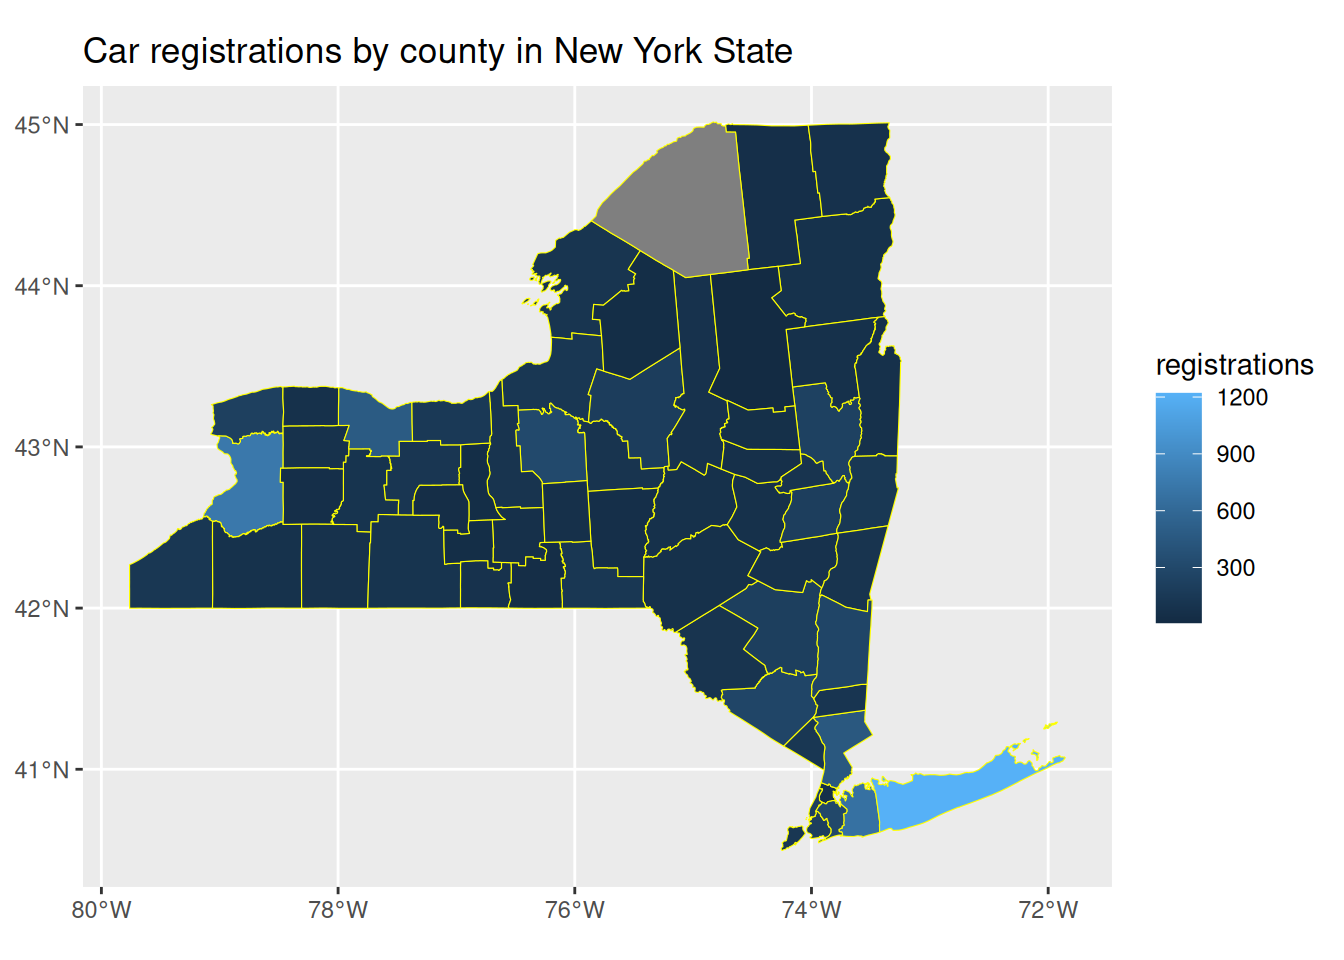
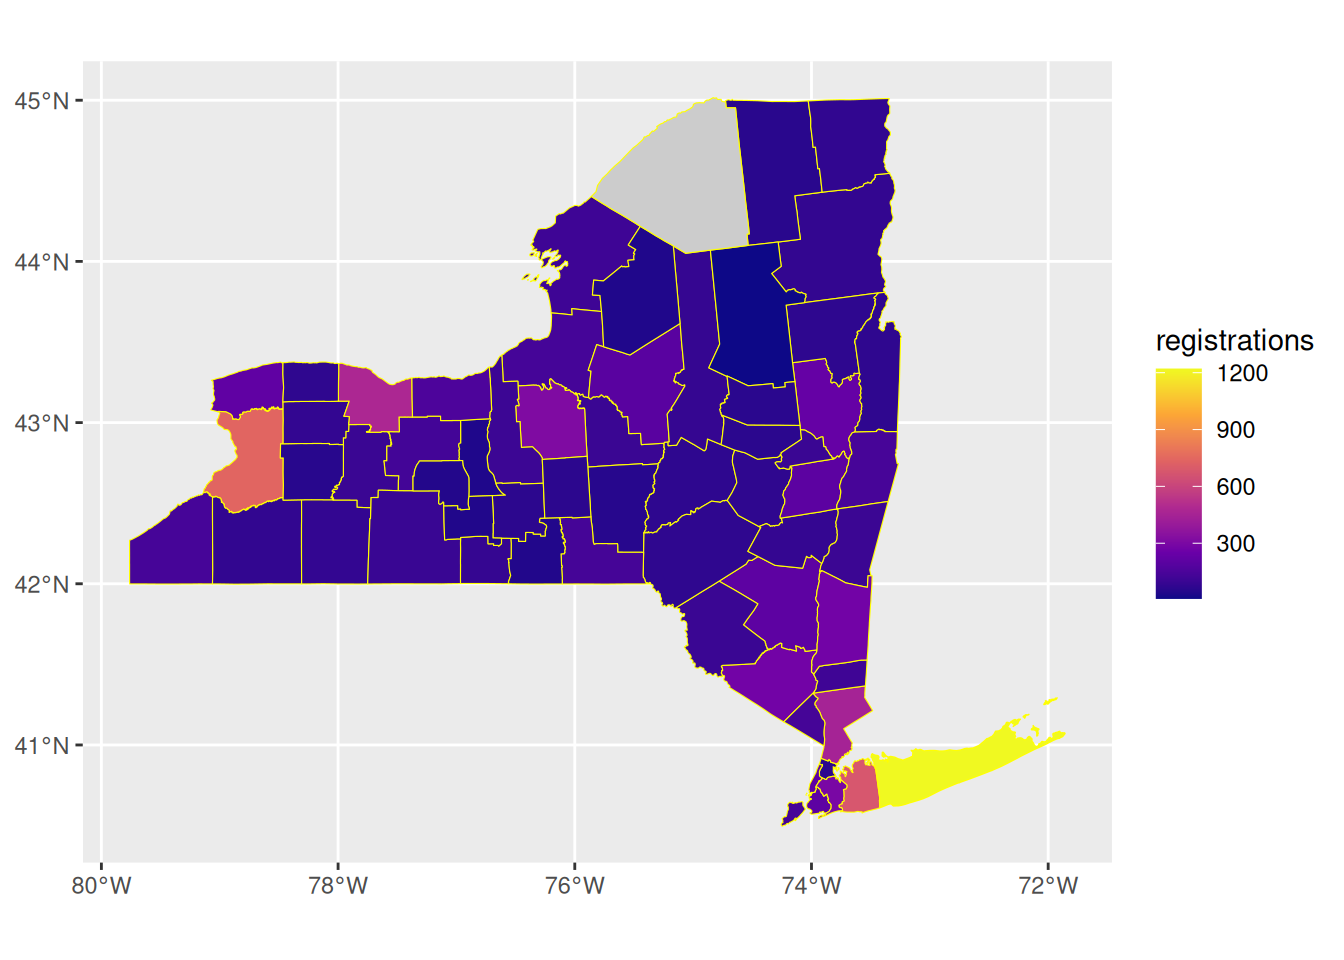
Built site for gh-pages

diff --git a/index.html b/index.html
@@ -28,41 +28,6 @@ ul.task-list li input[type="checkbox"] {
   margin: 0 0.8em 0.2em -1em; /* quarto-specific, see https://github.com/quarto-dev/quarto-cli/issues/4556 */ 
   vertical-align: middle;
 }
-/* CSS for syntax highlighting */
-html { -webkit-text-size-adjust: 100%; }
-pre > code.sourceCode { white-space: pre; position: relative; }
-pre > code.sourceCode > span { display: inline-block; line-height: 1.25; }
-pre > code.sourceCode > span:empty { height: 1.2em; }
-.sourceCode { overflow: visible; }
-code.sourceCode > span { color: inherit; text-decoration: inherit; }
-div.sourceCode { margin: 1em 0; }
-pre.sourceCode { margin: 0; }
-@media screen {
-div.sourceCode { overflow: auto; }
-}
-@media print {
-pre > code.sourceCode { white-space: pre-wrap; }
-pre > code.sourceCode > span { text-indent: -5em; padding-left: 5em; }
-}
-pre.numberSource code
-  { counter-reset: source-line 0; }
-pre.numberSource code > span
-  { position: relative; left: -4em; counter-increment: source-line; }
-pre.numberSource code > span > a:first-child::before
-  { content: counter(source-line);
-    position: relative; left: -1em; text-align: right; vertical-align: baseline;
-    border: none; display: inline-block;
-    -webkit-touch-callout: none; -webkit-user-select: none;
-    -khtml-user-select: none; -moz-user-select: none;
-    -ms-user-select: none; user-select: none;
-    padding: 0 4px; width: 4em;
-  }
-pre.numberSource { margin-left: 3em;  padding-left: 4px; }
-div.sourceCode
-  {   }
-@media screen {
-pre > code.sourceCode > span > a:first-child::before { text-decoration: underline; }
-}
 </style>
 
 
@@ -191,17 +156,11 @@ pre > code.sourceCode > span > a:first-child::before { text-decoration: underlin
 <h1>Introduction</h1>
 <p>In the State of New York, car dependency has become an important fact within the work culture for many New Yorkers across the state. The question this project will look at is what is the relationship between car ownership and the employment rate in different parts of the state? Will we find places that have high car ownership also to have greater job opportunities and employment rate?</p>
 <p>If so, how can this research be used to help those who don’t own a car, still have access to job opportunities across the state? The potential answers to this question could also help explain how car ownership is crucial for working in the modern era today.</p>
-<p>For Peer Reviwer: (*Looking for advice on what else to add here to make it a little bit more enticing!)</p>
 <p>The data being used to with in this project can all be found within NY’s data. gov website</p>
 </section>
 <section id="download-load-required-packages" class="level1">
 <h1>Download / Load Required Packages</h1>
 <div class="cell">
-<div class="code-copy-outer-scaffold"><div class="sourceCode cell-code" id="cb1"><pre class="sourceCode r code-with-copy"><code class="sourceCode r"><span id="cb1-1"><a href="#cb1-1" aria-hidden="true" tabindex="-1"></a><span class="co">#|echo: false</span></span>
-<span id="cb1-2"><a href="#cb1-2" aria-hidden="true" tabindex="-1"></a><span class="co">#|message: false </span></span>
-<span id="cb1-3"><a href="#cb1-3" aria-hidden="true" tabindex="-1"></a><span class="co">#'install.packages("nysOpenData")</span></span>
-<span id="cb1-4"><a href="#cb1-4" aria-hidden="true" tabindex="-1"></a><span class="co">#'installed.packages("tigris")</span></span>
-<span id="cb1-5"><a href="#cb1-5" aria-hidden="true" tabindex="-1"></a><span class="fu">library</span>(<span class="st">"tidyverse"</span>)</span></code></pre></div><button title="Copy to Clipboard" class="code-copy-button"><i class="bi"></i></button></div>
 <div class="cell-output cell-output-stderr">
 <pre><code>── Attaching core tidyverse packages ──────────────────────── tidyverse 2.0.0 ──
 ✔ dplyr     1.2.1     ✔ readr     2.2.0
@@ -212,65 +171,26 @@ pre > code.sourceCode > span > a:first-child::before { text-decoration: underlin
 ── Conflicts ────────────────────────────────────────── tidyverse_conflicts() ──
 ✖ dplyr::filter() masks stats::filter()
 ✖ dplyr::lag()    masks stats::lag()
-ℹ Use the conflicted package (&lt;http://conflicted.r-lib.org/&gt;) to force all conflicts to become errors</code></pre>
-</div>
-<div class="code-copy-outer-scaffold"><div class="sourceCode cell-code" id="cb3"><pre class="sourceCode r code-with-copy"><code class="sourceCode r"><span id="cb3-1"><a href="#cb3-1" aria-hidden="true" tabindex="-1"></a><span class="fu">library</span>(<span class="st">"nysOpenData"</span>)</span>
-<span id="cb3-2"><a href="#cb3-2" aria-hidden="true" tabindex="-1"></a><span class="fu">library</span>(<span class="st">"knitr"</span>)</span>
-<span id="cb3-3"><a href="#cb3-3" aria-hidden="true" tabindex="-1"></a><span class="fu">library</span>(<span class="st">"sf"</span>)</span></code></pre></div><button title="Copy to Clipboard" class="code-copy-button"><i class="bi"></i></button></div>
-<div class="cell-output cell-output-stderr">
-<pre><code>Linking to GEOS 3.14.1, GDAL 3.12.2, PROJ 9.7.1; sf_use_s2() is TRUE</code></pre>
-</div>
-<div class="code-copy-outer-scaffold"><div class="sourceCode cell-code" id="cb5"><pre class="sourceCode r code-with-copy"><code class="sourceCode r"><span id="cb5-1"><a href="#cb5-1" aria-hidden="true" tabindex="-1"></a><span class="fu">library</span>(<span class="st">"tigris"</span>)</span></code></pre></div><button title="Copy to Clipboard" class="code-copy-button"><i class="bi"></i></button></div>
-<div class="cell-output cell-output-stderr">
-<pre><code>To enable caching of data, set `options(tigris_use_cache = TRUE)`
+ℹ Use the conflicted package (&lt;http://conflicted.r-lib.org/&gt;) to force all conflicts to become errors
+Linking to GEOS 3.14.1, GDAL 3.12.2, PROJ 9.7.1; sf_use_s2() is TRUE
+
+To enable caching of data, set `options(tigris_use_cache = TRUE)`
 in your R script or .Rprofile.</code></pre>
 </div>
-<div class="code-copy-outer-scaffold"><div class="sourceCode cell-code" id="cb7"><pre class="sourceCode r code-with-copy"><code class="sourceCode r"><span id="cb7-1"><a href="#cb7-1" aria-hidden="true" tabindex="-1"></a><span class="fu">options</span>(<span class="at">tigris_use_cache =</span> <span class="cn">TRUE</span>)</span></code></pre></div><button title="Copy to Clipboard" class="code-copy-button"><i class="bi"></i></button></div>
 </div>
 </section>
 <section id="download-the-data" class="level1">
 <h1>Download the Data</h1>
 <div class="cell">
-<div class="code-copy-outer-scaffold"><div class="sourceCode cell-code" id="cb8"><pre class="sourceCode r code-with-copy"><code class="sourceCode r"><span id="cb8-1"><a href="#cb8-1" aria-hidden="true" tabindex="-1"></a><span class="co">#|echo: false</span></span>
-<span id="cb8-2"><a href="#cb8-2" aria-hidden="true" tabindex="-1"></a><span class="co">#|message: false </span></span>
-<span id="cb8-3"><a href="#cb8-3" aria-hidden="true" tabindex="-1"></a></span>
-<span id="cb8-4"><a href="#cb8-4" aria-hidden="true" tabindex="-1"></a>Catalog_NY <span class="ot">&lt;-</span> <span class="fu">nys_list_datasets</span>()</span>
-<span id="cb8-5"><a href="#cb8-5" aria-hidden="true" tabindex="-1"></a>Catalog_NY[ <span class="fu">grepl</span>(<span class="st">"County Employment Data"</span>, Catalog_NY<span class="sc">$</span>title, <span class="at">ignore.case =</span> <span class="cn">TRUE</span>), <span class="fu">c</span>(<span class="st">"key"</span>, <span class="st">"uid"</span>, <span class="st">"title"</span>)] <span class="co">#This code gives us a full catalog of all the datasets available, unfortunately our Employment data cannot be found here so we have to manual find the API Endpoint</span></span></code></pre></div><button title="Copy to Clipboard" class="code-copy-button"><i class="bi"></i></button></div>
 <div class="cell-output cell-output-stdout">
 <pre><code># A tibble: 0 × 3
 # ℹ 3 variables: key &lt;chr&gt;, uid &lt;chr&gt;, title &lt;chr&gt;</code></pre>
 </div>
-<div class="code-copy-outer-scaffold"><div class="sourceCode cell-code" id="cb10"><pre class="sourceCode r code-with-copy"><code class="sourceCode r"><span id="cb10-1"><a href="#cb10-1" aria-hidden="true" tabindex="-1"></a>NYCountyEmployData <span class="ot">&lt;-</span> <span class="fu">nys_any_dataset</span>(<span class="at">json_link =</span> <span class="st">"https://data.ny.gov/resource/4v74-29eq.json"</span>) <span class="co">#Since we couldn't find the website on the catalog, we use this code with the website API Endpoint to get the dataset</span></span>
-<span id="cb10-2"><a href="#cb10-2" aria-hidden="true" tabindex="-1"></a></span>
-<span id="cb10-3"><a href="#cb10-3" aria-hidden="true" tabindex="-1"></a></span>
-<span id="cb10-4"><a href="#cb10-4" aria-hidden="true" tabindex="-1"></a>NYVehicleData <span class="ot">&lt;-</span> <span class="fu">nys_pull_dataset</span>(<span class="at">dataset =</span> <span class="st">"w4pv-hbkt"</span>, <span class="at">where =</span> <span class="st">"record_type = 'VEH'"</span>) <span class="co">#Since this dataset was found inside the catalog, we don't need API Endpoint. This code also filtered the data to only see Vehicles!</span></span></code></pre></div><button title="Copy to Clipboard" class="code-copy-button"><i class="bi"></i></button></div>
 </div>
 </section>
 <section id="map-filter-the-vehicle-data" class="level1">
 <h1>Map / Filter the Vehicle Data</h1>
 <div class="cell">
-<div class="code-copy-outer-scaffold"><div class="sourceCode cell-code" id="cb11"><pre class="sourceCode r code-with-copy"><code class="sourceCode r"><span id="cb11-1"><a href="#cb11-1" aria-hidden="true" tabindex="-1"></a><span class="co">#|echo: false</span></span>
-<span id="cb11-2"><a href="#cb11-2" aria-hidden="true" tabindex="-1"></a><span class="co">#|message: false </span></span>
-<span id="cb11-3"><a href="#cb11-3" aria-hidden="true" tabindex="-1"></a></span>
-<span id="cb11-4"><a href="#cb11-4" aria-hidden="true" tabindex="-1"></a>NYS_Counties <span class="ot">&lt;-</span> <span class="fu">counties</span>( <span class="at">state =</span> <span class="st">"NY"</span>, <span class="at">cb =</span> <span class="cn">TRUE</span>, <span class="at">year =</span> <span class="dv">2024</span>)</span>
-<span id="cb11-5"><a href="#cb11-5" aria-hidden="true" tabindex="-1"></a></span>
-<span id="cb11-6"><a href="#cb11-6" aria-hidden="true" tabindex="-1"></a>Vehicle_byCounty <span class="ot">&lt;-</span> NYVehicleData <span class="sc">%&gt;%</span></span>
-<span id="cb11-7"><a href="#cb11-7" aria-hidden="true" tabindex="-1"></a>  <span class="fu">group_by</span>(county)<span class="sc">%&gt;%</span></span>
-<span id="cb11-8"><a href="#cb11-8" aria-hidden="true" tabindex="-1"></a>  <span class="fu">summarise</span>(</span>
-<span id="cb11-9"><a href="#cb11-9" aria-hidden="true" tabindex="-1"></a>    <span class="at">registrations =</span> <span class="fu">n</span>())</span>
-<span id="cb11-10"><a href="#cb11-10" aria-hidden="true" tabindex="-1"></a></span>
-<span id="cb11-11"><a href="#cb11-11" aria-hidden="true" tabindex="-1"></a>NYS_Counties <span class="ot">&lt;-</span> NYS_Counties <span class="sc">%&gt;%</span></span>
-<span id="cb11-12"><a href="#cb11-12" aria-hidden="true" tabindex="-1"></a>  <span class="fu">mutate</span>(<span class="at">county =</span> <span class="fu">str_remove</span>(NAMELSAD, <span class="st">" County$"</span>))</span>
-<span id="cb11-13"><a href="#cb11-13" aria-hidden="true" tabindex="-1"></a></span>
-<span id="cb11-14"><a href="#cb11-14" aria-hidden="true" tabindex="-1"></a>Vehicle_byCounty <span class="ot">&lt;-</span> Vehicle_byCounty <span class="sc">%&gt;%</span></span>
-<span id="cb11-15"><a href="#cb11-15" aria-hidden="true" tabindex="-1"></a>  <span class="fu">mutate</span>(<span class="at">county =</span> <span class="fu">str_to_title</span>(county))</span>
-<span id="cb11-16"><a href="#cb11-16" aria-hidden="true" tabindex="-1"></a>  </span>
-<span id="cb11-17"><a href="#cb11-17" aria-hidden="true" tabindex="-1"></a>NY_CarOwnership_Map <span class="ot">&lt;-</span> NYS_Counties <span class="sc">%&gt;%</span></span>
-<span id="cb11-18"><a href="#cb11-18" aria-hidden="true" tabindex="-1"></a>  <span class="fu">left_join</span>(Vehicle_byCounty, <span class="at">by =</span> <span class="st">"county"</span>)</span>
-<span id="cb11-19"><a href="#cb11-19" aria-hidden="true" tabindex="-1"></a></span>
-<span id="cb11-20"><a href="#cb11-20" aria-hidden="true" tabindex="-1"></a><span class="fu">ggplot</span>(NY_CarOwnership_Map)<span class="sc">+</span></span>
-<span id="cb11-21"><a href="#cb11-21" aria-hidden="true" tabindex="-1"></a>  <span class="fu">geom_sf</span>(<span class="fu">aes</span>(<span class="at">fill =</span> registrations), <span class="at">color =</span><span class="st">"yellow"</span>)<span class="sc">+</span></span>
-<span id="cb11-22"><a href="#cb11-22" aria-hidden="true" tabindex="-1"></a>  <span class="fu">labs</span>(<span class="at">title =</span> <span class="st">"Car registrations by county in New York State"</span>)</span></code></pre></div><button title="Copy to Clipboard" class="code-copy-button"><i class="bi"></i></button></div>
 <div class="cell-output-display">
 <div>
 <figure class="figure">
@@ -278,9 +198,12 @@ in your R script or .Rprofile.</code></pre>
 </figure>
 </div>
 </div>
+<div class="cell-output cell-output-stdout">
+<pre><code>&lt;ggplot2::labels&gt; List of 2
+ $ fill : chr "Registrations"
+ $ title: chr "Car registrations by county in New York State"</code></pre>
 </div>
-<p>For peer reviewer: * I would love suggestions on how to tweak this map. It’s not really finding registrations record_type keeps coming as NA, might be an issue with how I left_joined the data? I’m trying to make it where the map has the density of registrations of vehicles in each county?</p>
-<p>*After this map is fixed, an employment rate map of ny will be created, and then I will be using those two data sets and creating a map that has both the car ownership and employment rate in one map to see the relationships</p>
+</div>
 <ul>
 <li>Everything below is from the orginial index and has not been updated yet!</li>
 </ul>
